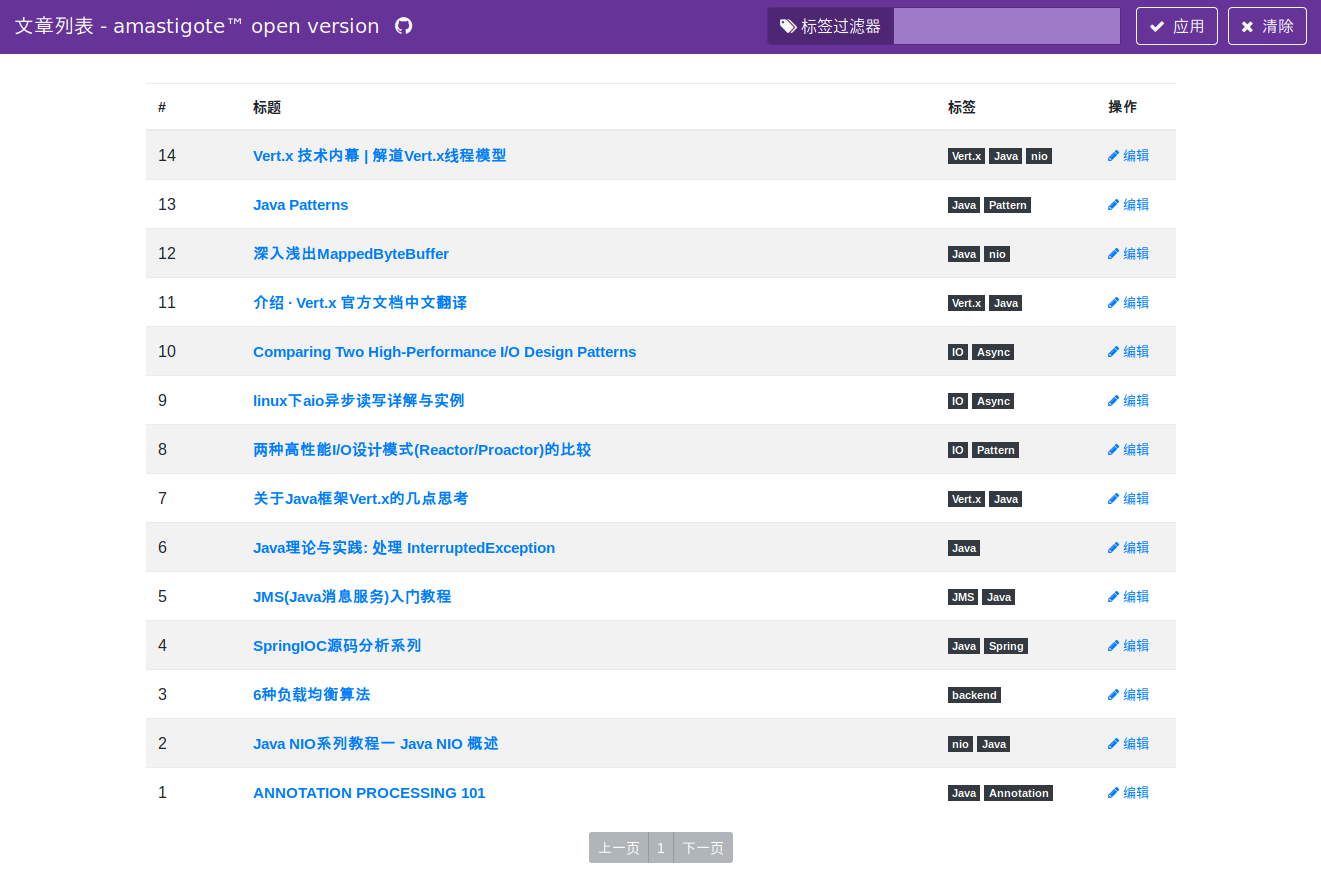
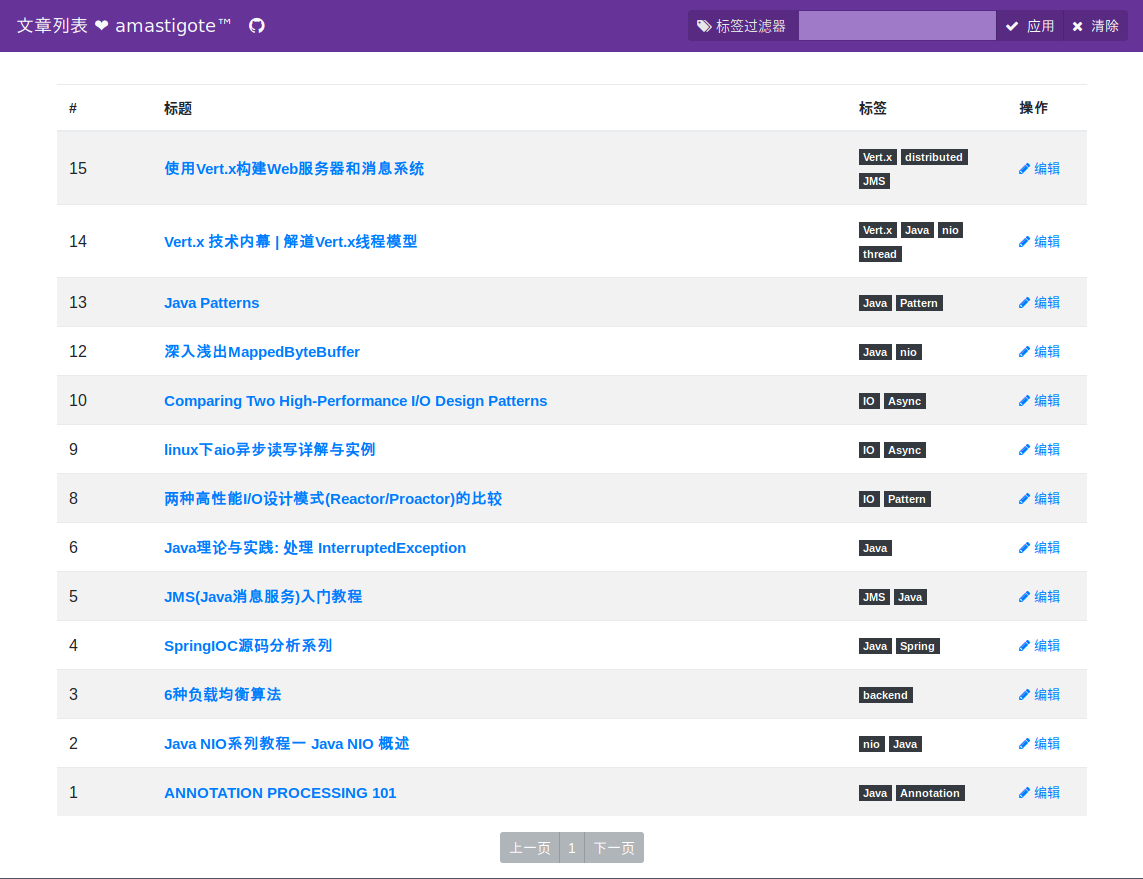
improve UI for page

diff --git a/html/page.html b/html/page.html
@@ -4,7 +4,7 @@
     <meta charset="UTF-8">
     <meta http-equiv="X-UA-Compatible" content="IE=edge">
     <meta name="viewport" content="width=device-width, initial-scale=1">
-    <title>文章列表 - amastigote™ open version</title>
+    <title>文章列表 - amastigote™</title>
     <link rel="shortcut icon" type="image/png" href="../pic/cn_1.png"/>
     <link rel="stylesheet" href="../css/tether.min.css"/>
     <link rel="stylesheet" href="../css/bootstrap.min.css"/>
@@ -22,34 +22,49 @@
             /* prevent horizontal scrollbar */
             overflow-x: hidden;
         }
+
         .modal-open {
             padding-right: 0 !important;
         }
+
         html {
             overflow-y: scroll !important;
+        }
+
+        .btn-light:hover {
+            color: #e4e4e4;
+            background-color: #9438cc;
+        }
+
+        .btn-light {
+            color: #e4e4e4;
+            background-color: #582a82;
+            border-color: #f8f9fa
         }
 
     </style>
 </head>
 <body style="margin: auto; min-height: 100%; padding-bottom: 20px">
 <nav class="navbar navbar-expand-lg navbar-dark fixed-top" style="background-color: rebeccapurple">
-    <span class="navbar-brand text-light" style="font-family: sans-serif; -moz-user-select: none">文章列表 - amastigote™ open version<a
+    <span class="navbar-brand text-light" style="font-size: 18px; font-family: sans-serif; -moz-user-select: none">文章列表 ❤ amastigote™<a
             class="fa fa-github text-light" style="margin-left: 15px"
             href="https://github.com/amastigote/amastigote-browser-ext"></a></span>
     <div class="collapse navbar-collapse" id="navbarSupportedContent">
         <ul class="navbar-nav mr-auto"></ul>
         <form class="form-inline">
-            <div class="input-group" style="width: 540px">
-                <span style="background-color: #4e2674; -moz-user-select: none" class="input-group-addon text-light"><i
-                        class="fa fa-tags"></i>&nbsp;标签过滤器</span>
+            <div class="input-group input-group-sm" style="width: 440px">
+                <span style="color: #e7e7e7; -moz-user-select: none; background-color: #582a82"
+                      class="input-group-addon"><i
+                        class="fa fa-tags"></i>&nbsp;标签过滤器&nbsp;</span>
                 <input style="background-color: rgb(158,122,201)" id="filterByTags"
                        class="form-control text-light" title="输入一组标签来过滤显示结果">
-                <button id="btnFilter" style="margin-left: 15px" type="button"
-                        class="btn btn-outline-light"><i class="fa fa-check"></i>&nbsp;&nbsp;应用
+                <span class="input-group-btn">
+                <button id="btnFilter" type="button" style="color: #4e2674"
+                        class="btn btn-light text-light"><i class="fa fa-check"></i>&nbsp;&nbsp;应用
                 </button>
-                <button id="btnClear" style="margin-left: 10px" type="button"
-                        class="btn btn-outline-light"><i class="fa fa-close"></i>&nbsp;&nbsp;清除
-                </button>
+                <button id="btnClear" type="button" style="color: #4e2674"
+                        class="btn btn-light text-light"><i class="fa fa-close"></i>&nbsp;&nbsp;清除
+                </button></span>
             </div>
         </form>
     </div>
